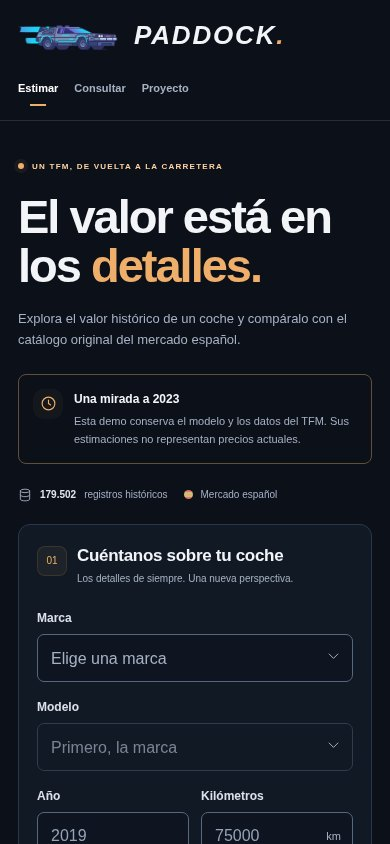
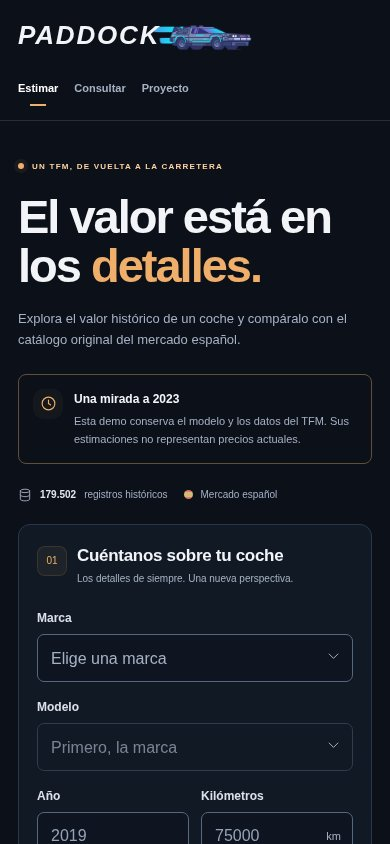
fix: connect Paddock K to original DeLorean trails

Changed region(s): [[0.0308, 0.0308, 0.7077, 0.0616]]

diff --git a/web/src/App.tsx b/web/src/App.tsx
@@ -107,12 +107,12 @@ export default function App() {
     <a className="skip-link" href="#estimador">Saltar al estimador</a>
     <header className="site-header"><div className="header-inner">
       <a className="wordmark" href="#inicio" aria-label="Paddock, inicio">
-        {/* Preserve the original car and trails; frame out the old lettering without editing its PNG. */}
+        <span className="brand-name" aria-hidden="true">PADDOCK</span>
+        {/* Join the K to the original trails, with the car following the wordmark. The PNG stays untouched. */}
         <svg className="brand-car" viewBox="586 145 125 34" width="125" height="34" aria-hidden="true" focusable="false">
           <defs><clipPath id="paddock-original-car"><polygon points="594,145 711,145 711,179 594,179 594,158 586,158 586,150 594,150" /></clipPath></defs>
           <image href="/paddock-delorean.png" width="835" height="327" clipPath="url(#paddock-original-car)" />
         </svg>
-        <span className="brand-name" aria-hidden="true">PADDOCK<span className="brand-logo-dot">.</span></span>
       </a>
       <nav aria-label="Navegación principal">{NAV_SECTIONS.map(([id, label]) => <a key={id} href={`#${id}`} className={activeSection === id ? 'nav-active' : undefined} aria-current={activeSection === id ? 'location' : undefined}>{label}</a>)}<a className="repo-link" href="https://github.com/Legodark/paddock" target="_blank" rel="noopener noreferrer"><Icon name="github" /><span>GitHub</span><span className="sr-only"> (abre otra pestaña)</span></a></nav>
     </div></header>

diff --git a/web/src/styles.css b/web/src/styles.css
@@ -36,10 +36,9 @@ h1, h2, h3, p { margin-top: 0; }
 .skip-link:focus { clip-path: none; }
 .site-header { border-bottom: 1px solid #252e3c; }
 .header-inner { min-height: 88px; display: flex; flex-wrap: wrap; align-items: center; justify-content: space-between; gap: 24px; padding-block: 16px; }
-.wordmark { display: inline-flex; flex: none; flex-wrap: wrap; align-items: center; gap: 10px 12px; max-width: 100%; min-height: 44px; }
-.brand-car { display: block; flex: none; width: 104px; height: auto; overflow: hidden; }
-.brand-name { color: #f3f4f7; font-size: 26px; font-weight: 850; font-style: italic; letter-spacing: .07em; line-height: 1.15; }
-.brand-logo-dot { color: var(--accent); }
+.wordmark { display: inline-flex; flex: none; align-items: center; max-width: 100%; min-height: 44px; }
+.brand-name { position: relative; z-index: 1; flex: none; color: #f3f4f7; font-size: 26px; font-weight: 850; font-style: italic; letter-spacing: .07em; line-height: 1.15; }
+.brand-car { display: block; flex: 0 1 104px; min-width: 0; width: 104px; height: auto; margin-left: -8px; overflow: hidden; }
 nav { display: flex; flex-wrap: wrap; align-items: center; max-width: 100%; gap: 34px; color: var(--muted); font-size: 13px; font-weight: 550; }
 nav a { padding-block: 12px; transition: color .15s; }
 nav a:hover, nav .nav-active { color: #fff; }
